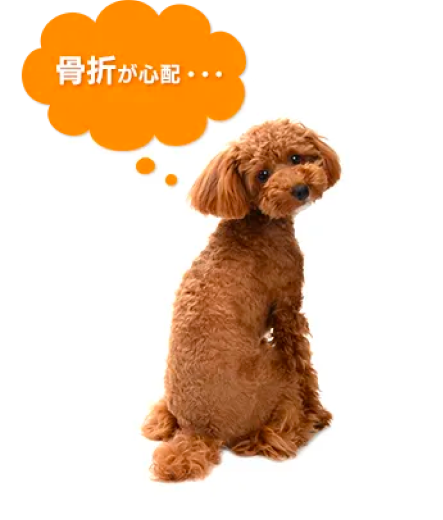
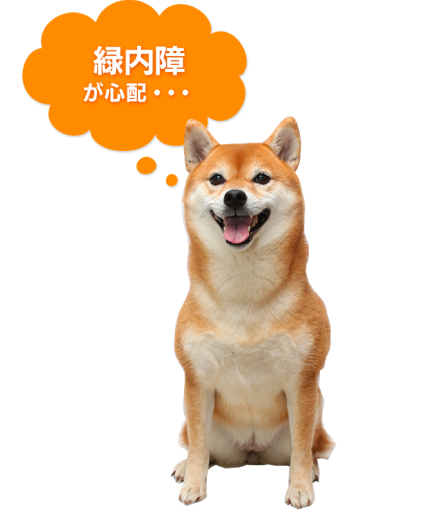
fix: shibaテキストクラス当て

diff --git a/pc/pet-dog/treatment_case/shiba.html b/pc/pet-dog/treatment_case/shiba.html
@@ -3,13 +3,13 @@
   <head prefix="og:http://ogp.me/ns# fb: http://ogp.me/ns/fb# article: http://ogp.me/ns/article#">
     <meta charset="utf-8" />
     <!--▼タイトル・キーワードなどの指定-->
-    <title>ミニチュア・ダックスフンドってどんな犬？ - 犬の保険（ワン保） - au損害保険公式サイト</title>
-    <meta name="description" content="ミニチュア・ダックスフンドは椎間板ヘルニアが心配！突然の病気やケガで入院や手術をした場合も、ちょっとした通院の場合でも、治療費は高額になりがち。ミニチュア・ダックスフンドのもしもの病気やケガに備えられるau損保のペット保険がオススメ。病気やケガの特徴・治療費についてはこちらから。" />
+    <title>柴犬の病気・治療費 - 犬の保険（ワン保） - au損害保険公式サイト</title>
+    <meta name="description" content="柴犬は緑内障が心配！突然の病気やケガで入院や手術をした場合も、ちょっとした通院の場合でも、治療費は高額になりがち。柴犬のもしもの病気やケガに備えられるau損保のペット保険がオススメ。病気やケガの特徴・治療費についてはこちらから。" />
 
     <meta property="og:site_name" content="au損害保険">
-    <meta property="og:title" content="ミニチュア・ダックスフンドってどんな犬？ - 犬の保険（ワン保） - au損害保険公式サイト">
+    <meta property="og:title" content="柴犬の病気・治療費 - 犬の保険（ワン保） - au損害保険公式サイト">
     <meta property="og:url" content="https://www.au-sonpo.co.jp/pc/pet-dog/treatment_case/index.html">
-    <meta property="og:description" content="ミニチュア・ダックスフンドは椎間板ヘルニアが心配！突然の病気やケガで入院や手術をした場合も、ちょっとした通院の場合でも、治療費は高額になりがち。ミニチュア・ダックスフンドのもしもの病気やケガに備えられるau損保のペット保険がオススメ。病気やケガの特徴・治療費についてはこちらから。">
+    <meta property="og:description" content="柴犬は緑内障が心配！突然の病気やケガで入院や手術をした場合も、ちょっとした通院の場合でも、治療費は高額になりがち。柴犬のもしもの病気やケガに備えられるau損保のペット保険がオススメ。病気やケガの特徴・治療費についてはこちらから。">
     <meta property="og:image" content="https://www.au-sonpo.co.jp/common_2024/img/ogp.png">
     <meta property="og:locale" content="ja_JP">
 
@@ -34,22 +34,22 @@
         <li class="c-breadcrumbs__item"><a href="/pc/pet/">ペット保険</a></li>
         <li class="c-breadcrumbs__item"><a href="/pc/pet-dog/">犬の保険</a></li>
         <li class="c-breadcrumbs__item"><a href="/pc/pet-dog/treatment_case/">治療事例</a></li>
-        <li class="c-breadcrumbs__item">ミニチュア・ダックスフンドってどんな犬？</li>
+        <li class="c-breadcrumbs__item">柴犬の病気・治療費</li>
       </ol>
     </nav>
     <main class="l-main l-container lg:-full sm:-full js-main u-mb-20">
-      <h1 class="c-heading1-bg-primary">ミニチュア・ダックスフンドってどんな犬？</h1>
-      <h2 class="c-heading2-has-border u-mt-14 u-bg-base-050">ミニチュア・ダックスフンドの特徴</h2>
+      <h1 class="c-heading1-bg-primary">柴犬ってどんな犬？</h1>
+      <h2 class="c-heading2-has-border u-mt-14 u-bg-base-050">柴犬の特徴</h2>
 
       <div class="u-flex u-mt-6 u-align-items-center sm:u-hidden">
         <div style="min-width:222px;" class="u-ml-5 u-mr-6">
           <picture>
-            <source srcset="/pc/pet/assets/img/pet_treatment_case_img02.webp" type="image/webp">
-            <img src="/pc/pet/assets/img/pet_treatment_case_img02.png" alt="犬の写真；「椎間板ヘルニアが心配」" loading="lazy">
+            <source srcset="/pc/pet/assets/img/pet_treatment_case_img03.webp" type="image/webp">
+            <img src="/pc/pet/assets/img/pet_treatment_case_img03.png" alt="犬の写真；「緑内障が心配」" loading="lazy">
           </picture>
         </div>
         <div>
-          <p class="u-text-16 u-mt-8 u-mr-8 u-leading-relaxed u-tracking-wide u-text-bold">ドイツ原産の胴が長く足が短い品種で、狭い穴に入ってアナグマ、ウサギなどの狩りをする優秀な狩猟犬として重宝されました。土中からでも居場所が特定できるようによく響く大きな声を出します。体格に似合わず動きも俊敏で、<span class="u-text-primary">とても人なつっこい性格です。</span></p>
+          <p class="u-text-16 u-mt-8 u-mr-8 u-leading-relaxed u-tracking-wide u-text-bold">日本原産の比較的小型の狩猟犬で、縄文時代から日本で飼われていたという説もある日本土着の品種です。独立心がある一方で、<span class="u-text-primary">信頼関係を築いた飼い主には非常に一途</span>な性格を持つことから海外でも人気が高い品種となっています。</p>
         </div>
       </div>
 
@@ -57,30 +57,30 @@
         <div class="u-flex u-mt-6">
           <div style="min-width:112px;">
             <picture>
-              <source srcset="/pc/pet/assets/img/pet_treatment_case_img02.webp" type="image/webp">
-              <img src="/pc/pet/assets/img/pet_treatment_case_img02.png" alt="犬の写真；「椎間板ヘルニアが心配」" loading="lazy">
+              <source srcset="/pc/pet/assets/img/pet_treatment_case_img03.webp" type="image/webp">
+              <img src="/pc/pet/assets/img/pet_treatment_case_img03.png" alt="犬の写真；「緑内障が心配」" loading="lazy">
             </picture>
           </div>
-          <p class="u-text-14 u-leading-relaxed u-text-bold">ドイツ原産の胴が長く足が短い品種で、狭い穴に入ってアナグマ、ウサギなどの狩りをする優秀な狩猟犬として重宝されました。土中からでも居場所が特定できるようによく響く大きな声を出します。体格に似合わず動きも俊敏で、<span class="u-text-primary">とても人なつっこい性格です。</span></p>
+          <p class="u-text-14 u-leading-relaxed u-text-bold">日本原産の比較的小型の狩猟犬で、縄文時代から日本で飼われていたという説もある日本土着の品種です。独立心がある一方で、<span class="u-text-primary">信頼関係を築いた飼い主には非常に一途</span>な性格を持つことから海外でも人気が高い品種となっています。</p>
         </div>
       </div>
 
 
-      <h2 class="c-heading2-has-border u-mt-6 sm:u-mt-8 u-bg-base-050">ミニチュア・ダックスフンドのかかりやすい病気・ケガ</h2>
+      <h2 class="c-heading2-has-border u-mt-6 sm:u-mt-8 u-bg-base-050">柴犬のかかりやすい病気・ケガ</h2>
       <p class="u-text-16 u-text-bold u-leading-relaxed u-mt-8 sm:u-mt-6">
-        脊椎にある椎間板という軟骨が変性しやすいことから「椎間板ヘルニア」になりやすいことが分かっています。この病気は脊椎に沿って存在する脊髄が椎間板物質により圧迫を受けて発症するもので、ヘルニア部の痛みや四肢の麻痺がおこります。初期では、普段飛び乗っているソファに飛び乗らなくなった、なんとなく動きに俊敏さが欠ける、などの様子で気づくことがあります。
+        眼の病気である<span class="u-text-primary">「緑内障」</span>になりやすいと言われています。眼球内は眼房水という液体で満たされていますが、なんらかの理由で眼房水が増えることで眼球の圧が高くなり視神経に障害が起きる疾患です。症状が軽度であれば視野が狭くなる程度ですが、<span class="u-text-primary">重度になると失明す</span>ることもあります。また、眼圧の上昇による痛みが生じます。
       </p>
 
-      <h2 class="c-heading2-has-border u-mt-12 sm:u-mt-8 u-bg-base-050">椎間板ヘルニアの治療</h2>
+      <h2 class="c-heading2-has-border u-mt-12 sm:u-mt-8 u-bg-base-050">緑内障の治療</h2>
       <p class="u-text-16 u-text-bold u-leading-relaxed u-mt-8 sm:u-mt-6">
-        症状が軽い場合は、内服、ケージレストによる安静、コルセットの装着などによる内科的治療を行いますが、症状が重い場合や内科的治療で改善がみられない場合には、外科治療が必要となります。外科治療では、脊髄を圧迫している椎間板物質を取り除きます。
+        眼圧を下げる目薬や場合によっては内服薬を使用します。眼房水の流出をスムーズにするための<span class="u-text-primary">外科手術が行われることもあります。</span>
+        
       </p>
 
-      <h2 class="c-heading2-has-border u-mt-8 sm:u-mt-8 u-bg-base-050">もし椎間板ヘルニアになったら、治療費にいくら位かかるの？</h2>
+      <h2 class="c-heading2-has-border u-mt-8 sm:u-mt-8 u-bg-base-050">もし緑内障になったら､治療費にいくら位かかるの?</h2>
       <p class="u-text-16 u-text-bold u-leading-relaxed u-mt-8 sm:u-mt-6">
-        後ろ肢をひきずるので、病院へ行ったところ椎間板ヘルニアとの診断。当初内科的治療を試みるが改善がなく、手術を受けることに。入院・手術前後に通院治療。<br class=""><br class="">
-        ＜その他のケース＞<br class="">
-        突然、腰が抜けたようにへたり込み、両後肢を引きずる。抱きかかえようとしたら痛いのかキャンキャンと激しく鳴く。急いで受診したところ、椎間板ヘルニアと診断。ヘルニア部位やヘルニアの状態を正確に知るためにMRI検査を行った結果、手術を受けることに。
+        左目の涙が増え、「痛そうにまばたき」したり、右目に比べて大きく見えるため受診。診察の結果、眼圧の上昇もあり、<span class="u-text-primary">緑内障</span>との診断。<br class="">
+        視力の回復のため手術を選択。入院・手術前後に通院。
       </p>
 
       <div class="u-flex u-align-items-center u-mt-8 sm:u-hidden">
@@ -89,19 +89,19 @@
           <thead>
             <tr>
               <th class="c-table__heading"></th>
-              <th class="c-table__heading">入院・手術（7泊8日）</th>
-              <th class="c-table__heading">通院（5日）</th>
+              <th class="c-table__heading">入院・手術（4泊5日）</th>
+              <th class="c-table__heading">通院（6日）</th>
             </tr>
           </thead>
           <tbody>
             <tr>
               <th class="c-table__title">治療別</th>
-              <td class="u-text-center" colspan="1">225,000円</td>
-              <td class="u-text-center" colspan="1">27,800円</td>
+              <td class="u-text-center" colspan="1">169,600円</td>
+              <td class="u-text-center" colspan="1">71,000円</td>
             </tr>
             <tr>
               <th class="c-table__title">治療費計</th>
-              <td class="u-text-center u-text-bold" colspan="2">252,800円</td>
+              <td class="u-text-center u-text-bold" colspan="2">240,600円</td>
             </tr>
           </tbody>
         </table>
@@ -124,19 +124,19 @@
             <thead>
               <tr>
                 <th class="c-table__heading"></th>
-                <th class="c-table__heading">入院・手術（7泊8日）</th>
-                <th class="c-table__heading">通院（5日）</th>
+                <th class="c-table__heading">入院・手術（4泊5日）</th>
+                <th class="c-table__heading">通院（6日）</th>
               </tr>
             </thead>
             <tbody>
               <tr>
                 <th class="c-table__title">治療別</th>
-                <td class="u-text-center" colspan="1">225,000円</td>
-                <td class="u-text-center" colspan="1">27,800円</td>
+                <td class="u-text-center" colspan="1">169,600円</td>
+                <td class="u-text-center" colspan="1">71,000円</td>
               </tr>
               <tr>
                 <th class="c-table__title">治療費計</th>
-                <td class="u-text-center u-text-bold" colspan="2">252,800円</td>
+                <td class="u-text-center u-text-bold" colspan="2">240,600円</td>
               </tr>
             </tbody>
           </table>
@@ -146,7 +146,8 @@
 
       <h2 class="c-heading2-has-border u-mt-16 sm:u-mt-8 u-bg-base-050">ほんの数回の通院で、治療費がかさんでしまうケースも！！</h2>
       <p class="u-text-16 u-text-bold u-leading-relaxed u-mt-8 sm:u-mt-6">
-        お正月に普段のフードとは異なる特別なごちそうを食べる。食べ過ぎたことや、普段食べなれていないものを食べたことにより、消化不良を起こして下痢をしてしまう。薬を処方され、通院治療。
+        夏に、内股をひどくかゆがるので見てみると、湿疹ができていました。<br class="">
+        <span class="u-text-primary">細菌性皮膚炎</span>との診断を受け、薬用シャンプーと薬で治療。
       </p>
 
       <div class="u-flex u-align-items-center u-mt-6 sm:u-hidden">
@@ -156,18 +157,18 @@
               <tr>
                 <th class="c-table__heading"></th>
                 <th class="c-table__heading">入院・手術</th>
-                <th class="c-table__heading">通院（6日）</th>
+                <th class="c-table__heading">通院（7日）</th>
               </tr>
             </thead>
             <tbody>
               <tr>
                 <th class="c-table__title">治療別</th>
                 <td class="u-text-center" colspan="1">なし</td>
-                <td class="u-text-center" colspan="1">17,600円</td>
+                <td class="u-text-center" colspan="1">25,550円</td>
               </tr>
               <tr>
                 <th class="c-table__title">治療費計</th>
-                <td class="u-text-center u-text-bold" colspan="2">17,600円</td>
+                <td class="u-text-center u-text-bold" colspan="2">25,550円</td>
               </tr>
             </tbody>
           </table>
@@ -191,18 +192,18 @@
               <tr>
                 <th class="c-table__heading"></th>
                 <th class="c-table__heading">入院・手術</th>
-                <th class="c-table__heading">通院（3日）</th>
+                <th class="c-table__heading">通院（7日）</th>
               </tr>
             </thead>
             <tbody>
               <tr>
                 <th class="c-table__title">治療別</th>
                 <td class="u-text-center" colspan="1">なし</td>
-                <td class="u-text-center" colspan="1">17,600円</td>
+                <td class="u-text-center" colspan="1">25,550円</td>
               </tr>
               <tr>
                 <th class="c-table__title">治療費計</th>
-                <td class="u-text-center u-text-bold" colspan="2">17,600円</td>
+                <td class="u-text-center u-text-bold" colspan="2">25,550円</td>
               </tr>
             </tbody>
           </table>
@@ -218,7 +219,7 @@
       </p>
 
       <p class="c-text-accent u-text-primary u-text-center u-mt-8">だからこそ<br>
-        万一のとき、愛犬のミニチュア・<br class="lg:u-hidden">ダックスフンドの治療費で<br class="lg:u-hidden">悩まないで済むように、<br>
+        万一のとき、愛犬の柴犬の治療費で<br class="lg:u-hidden">悩まないで済むように、<br>
         au損保は「ペットの保険」を<br class="lg:u-hidden">お届けします。</p>
 
       <div class="p-pet-application u-mt-8 sm:u-mt-4 l-container lg:-md">

diff --git a/pc/pet-dog/treatment_case/miniaturedachshund.html b/pc/pet-dog/treatment_case/miniaturedachshund.html
@@ -68,7 +68,7 @@
 
       <h2 class="c-heading2-has-border u-mt-6 sm:u-mt-8 u-bg-base-050">ミニチュア・ダックスフンドのかかりやすい病気・ケガ</h2>
       <p class="u-text-16 u-text-bold u-leading-relaxed u-mt-8 sm:u-mt-6">
-        脊椎にある椎間板という軟骨が変性しやすいことから「椎間板ヘルニア」になりやすいことが分かっています。この病気は脊椎に沿って存在する脊髄が椎間板物質により圧迫を受けて発症するもので、ヘルニア部の痛みや四肢の麻痺がおこります。初期では、普段飛び乗っているソファに飛び乗らなくなった、なんとなく動きに俊敏さが欠ける、などの様子で気づくことがあります。
+        脊椎にある椎間板という軟骨が変性しやすいことから<span class="u-text-primary">「椎間板ヘルニア」</span>になりやすいことが分かっています。この病気は脊椎に沿って存在する脊髄が椎間板物質により圧迫を受けて発症するもので、ヘルニア部の痛みや四肢の麻痺がおこります。初期では、普段飛び乗っているソファに飛び乗らなくなった、なんとなく動きに俊敏さが欠ける、などの様子で気づくことがあります。
       </p>
 
       <h2 class="c-heading2-has-border u-mt-12 sm:u-mt-8 u-bg-base-050">椎間板ヘルニアの治療</h2>
@@ -78,7 +78,7 @@
 
       <h2 class="c-heading2-has-border u-mt-8 sm:u-mt-8 u-bg-base-050">もし椎間板ヘルニアになったら、治療費にいくら位かかるの？</h2>
       <p class="u-text-16 u-text-bold u-leading-relaxed u-mt-8 sm:u-mt-6">
-        後ろ肢をひきずるので、病院へ行ったところ椎間板ヘルニアとの診断。当初内科的治療を試みるが改善がなく、手術を受けることに。入院・手術前後に通院治療。<br class=""><br class="">
+        後ろ肢をひきずるので、病院へ行ったところ<span class="u-text-primary">椎間板ヘルニア</span>との診断。当初内科的治療を試みるが改善がなく、手術を受けることに。入院・手術前後に通院治療。<br class=""><br class="">
         ＜その他のケース＞<br class="">
         突然、腰が抜けたようにへたり込み、両後肢を引きずる。抱きかかえようとしたら痛いのかキャンキャンと激しく鳴く。急いで受診したところ、椎間板ヘルニアと診断。ヘルニア部位やヘルニアの状態を正確に知るためにMRI検査を行った結果、手術を受けることに。
       </p>
@@ -146,7 +146,7 @@
 
       <h2 class="c-heading2-has-border u-mt-16 sm:u-mt-8 u-bg-base-050">ほんの数回の通院で、治療費がかさんでしまうケースも！！</h2>
       <p class="u-text-16 u-text-bold u-leading-relaxed u-mt-8 sm:u-mt-6">
-        お正月に普段のフードとは異なる特別なごちそうを食べる。食べ過ぎたことや、普段食べなれていないものを食べたことにより、消化不良を起こして下痢をしてしまう。薬を処方され、通院治療。
+        お正月に普段のフードとは異なる特別なごちそうを食べる。食べ過ぎたことや、普段食べなれていないものを食べたことにより、消化不良を起こして<span class="u-text-primary">下痢</span>をしてしまう。薬を処方され、通院治療。
       </p>
 
       <div class="u-flex u-align-items-center u-mt-6 sm:u-hidden">
